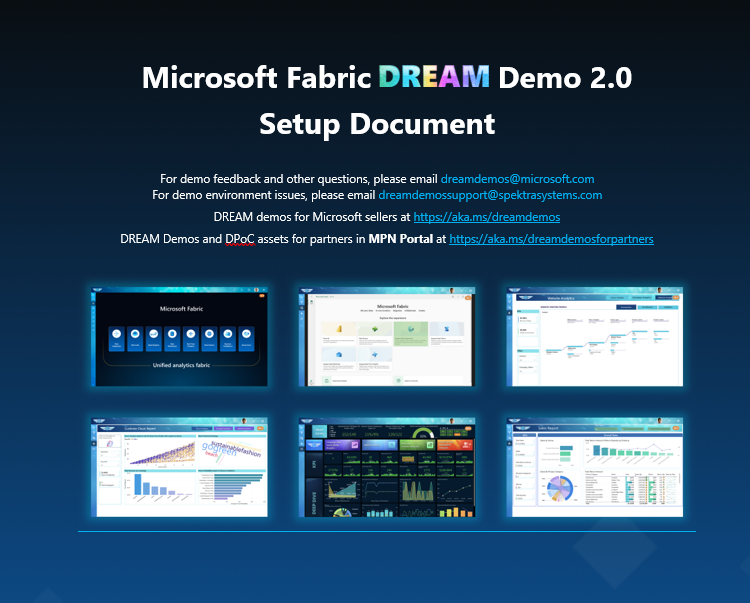
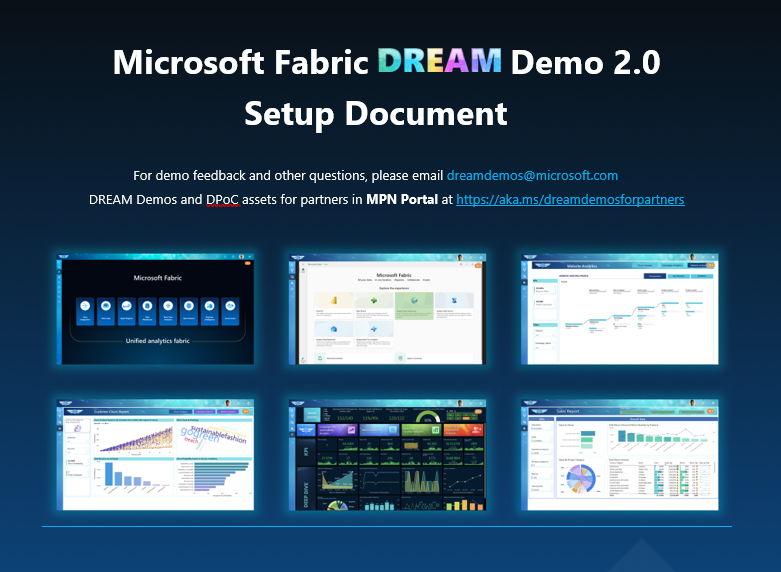
updated media and readme

diff --git a/fabric/Readme-shell.md b/fabric/Readme-shell.md
@@ -123,7 +123,9 @@ Customers can play, get hands-on experience navigating through the demo environm
 ### Task 2: Run the Cloud Shell to provision the demo resources
 
 >**Note:** For this Demo we have assets in an Azure resource group as well as Fabric Workspaces
+
 >**Note:** In this task we will execute a powershell script on Cloudshell to create those assets
+
 >**Note:** List of the resources are as follows:
 
 **Azure resources:**
@@ -219,13 +221,13 @@ Customers can play, get hands-on experience navigating through the demo environm
 
 	>**Note:** All the cmdlets used in the script work best in Powershell.	
 
-	>**Note:** Please use 'Ctrl+C' to copy is and 'Shift+Insert' to paste, as 'Ctrl+V' is NOT supported by CLoudshell.
+	>**Note:** Please use 'Ctrl+C' to copy is and 'Shift+Insert' to paste, as 'Ctrl+V' is NOT supported by Cloudshell.
 
 8. Enter the following command to clone the repository files in cloudshell.
 
 Command:
 ```
-git clone -b fabric2.0 --depth 1 --single-branch https://daidemos@dev.azure.com/daidemos/Microsoft%20Data%20and%20AI%20DREAM%20Demos%20and%20DDiB/_git/DreamDemoInABox fabric
+git clone -b microsoftfabric2.0 --depth 1 --single-branch https://github.com/microsoft/Azure-Analytics-and-AI-Engagement.git fabric
 ```
 
    ![Git Clone Command to Pull Down the demo Repository.](media/cloud-shell-4.5.png)
